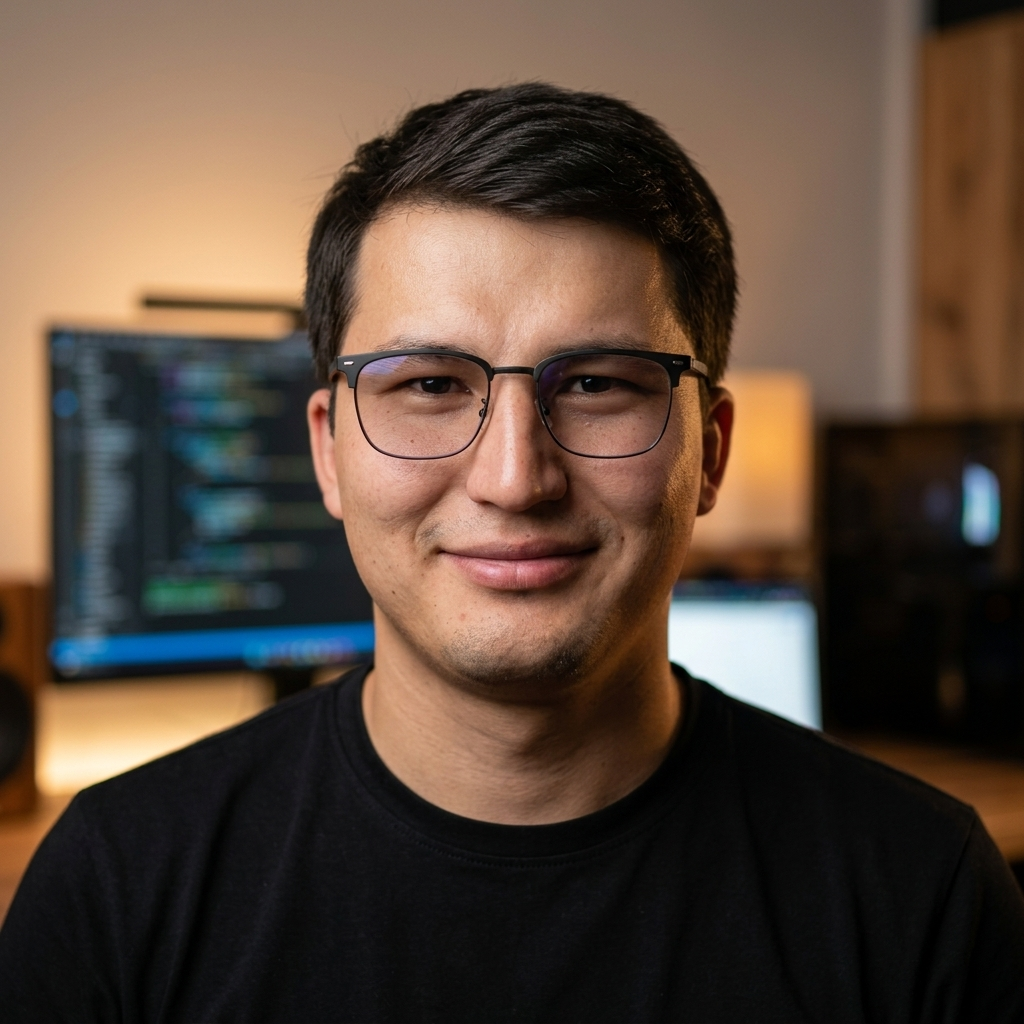
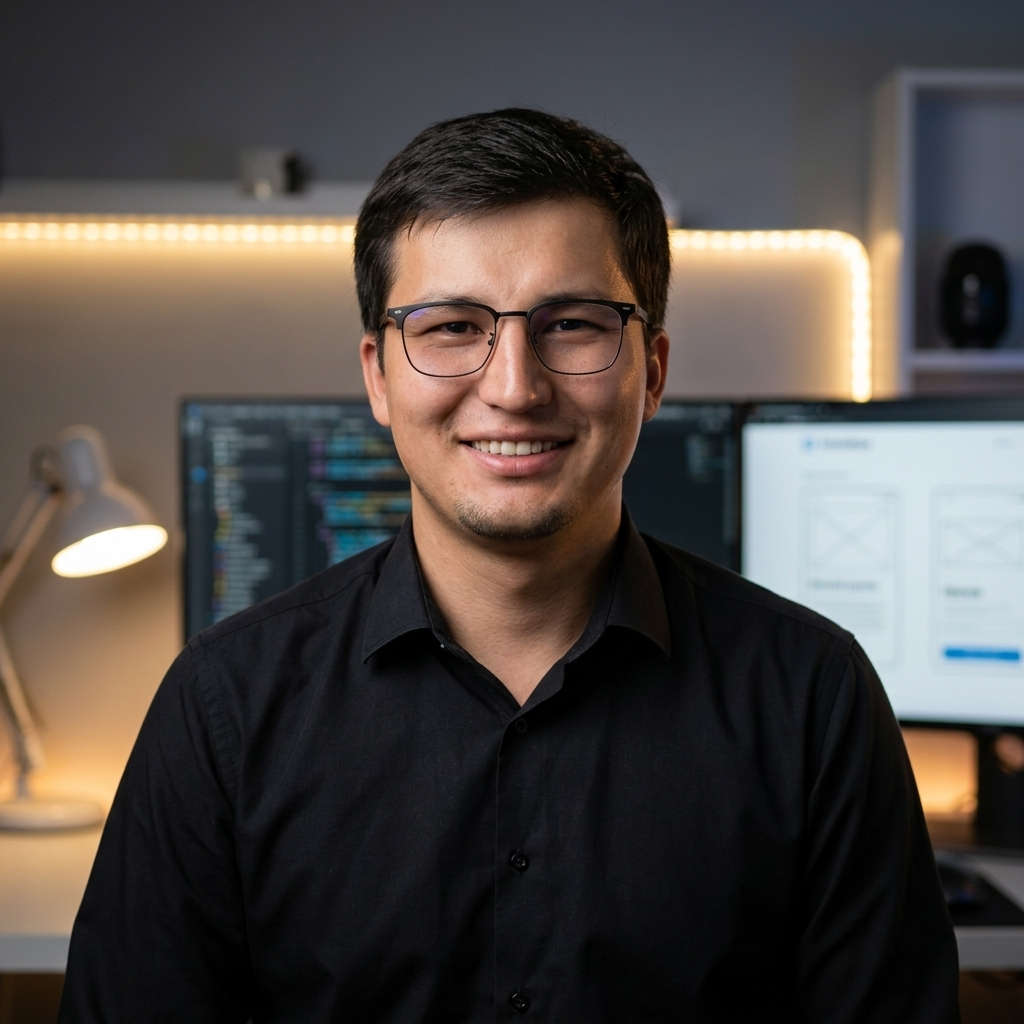
feat: update portraits with premium AI-generated versions and set unique portrait for about page

diff --git a/src/app/about/page.tsx b/src/app/about/page.tsx
@@ -143,7 +143,7 @@ export default function AboutPage() {
         <div className="md:col-span-5 flex justify-center">
           <div className="w-full max-w-[280px] aspect-[3/4] rounded-[24px] overflow-hidden border border-border p-2 bg-white shadow-sm relative">
             <img 
-              src="/portrait.png" 
+              src="/portrait_about.png" 
               alt="Akbarali Sottorov Portrait" 
               className="w-full h-full object-cover rounded-[18px] grayscale" 
               loading="lazy"
